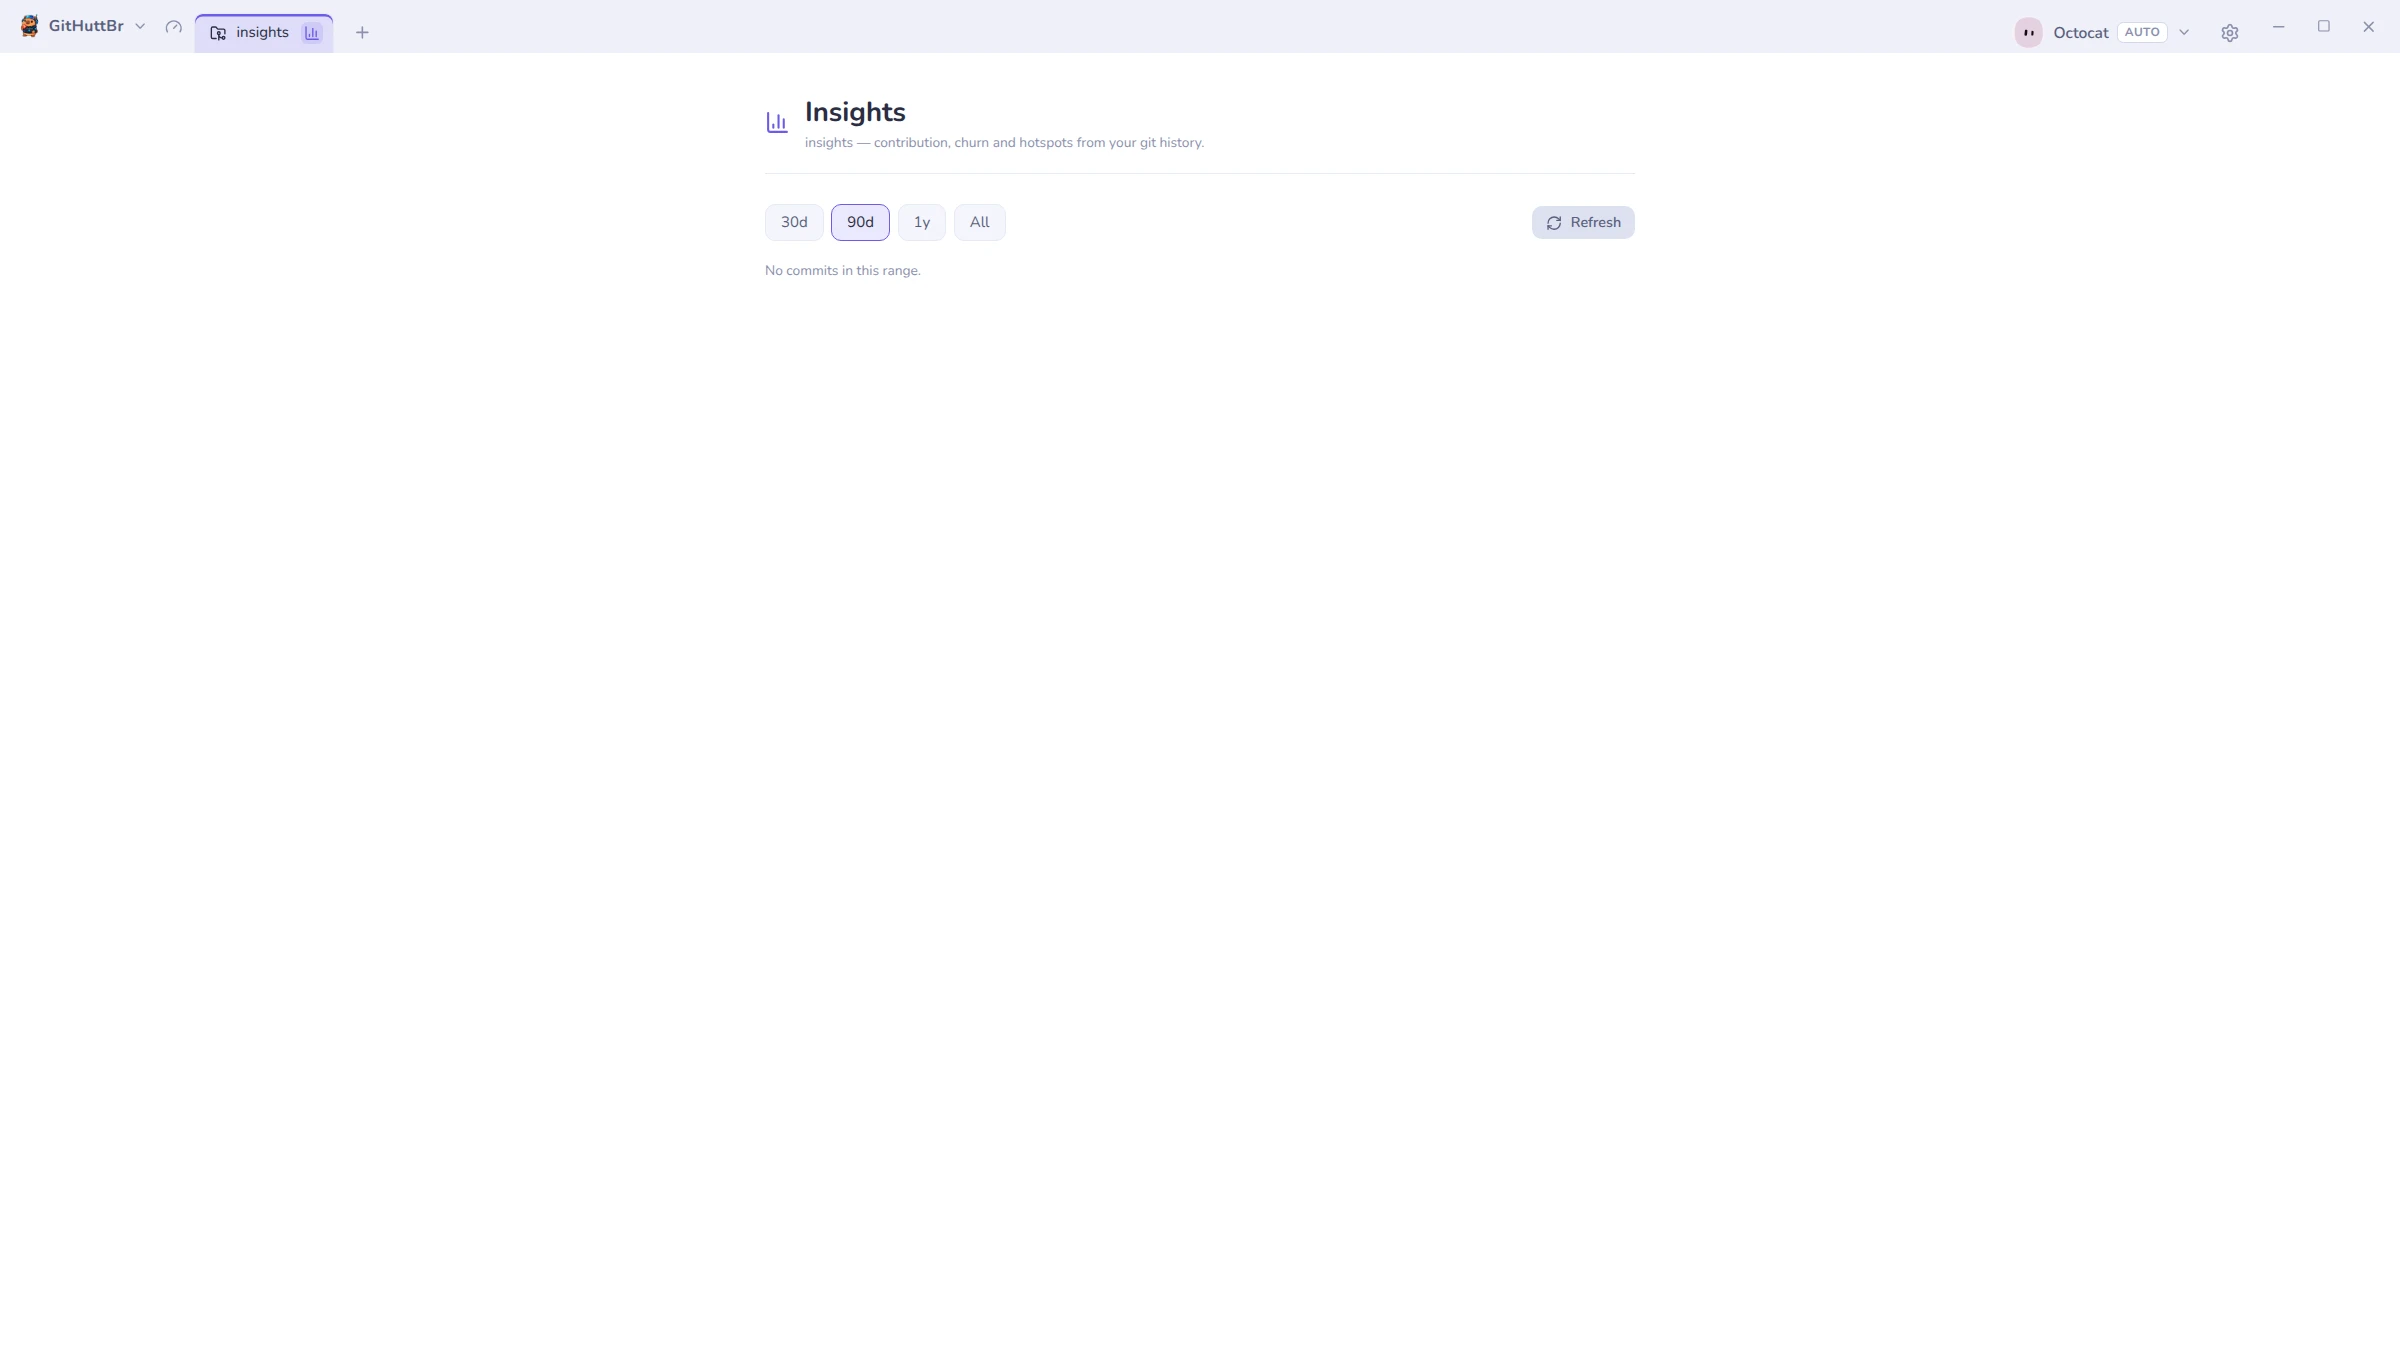
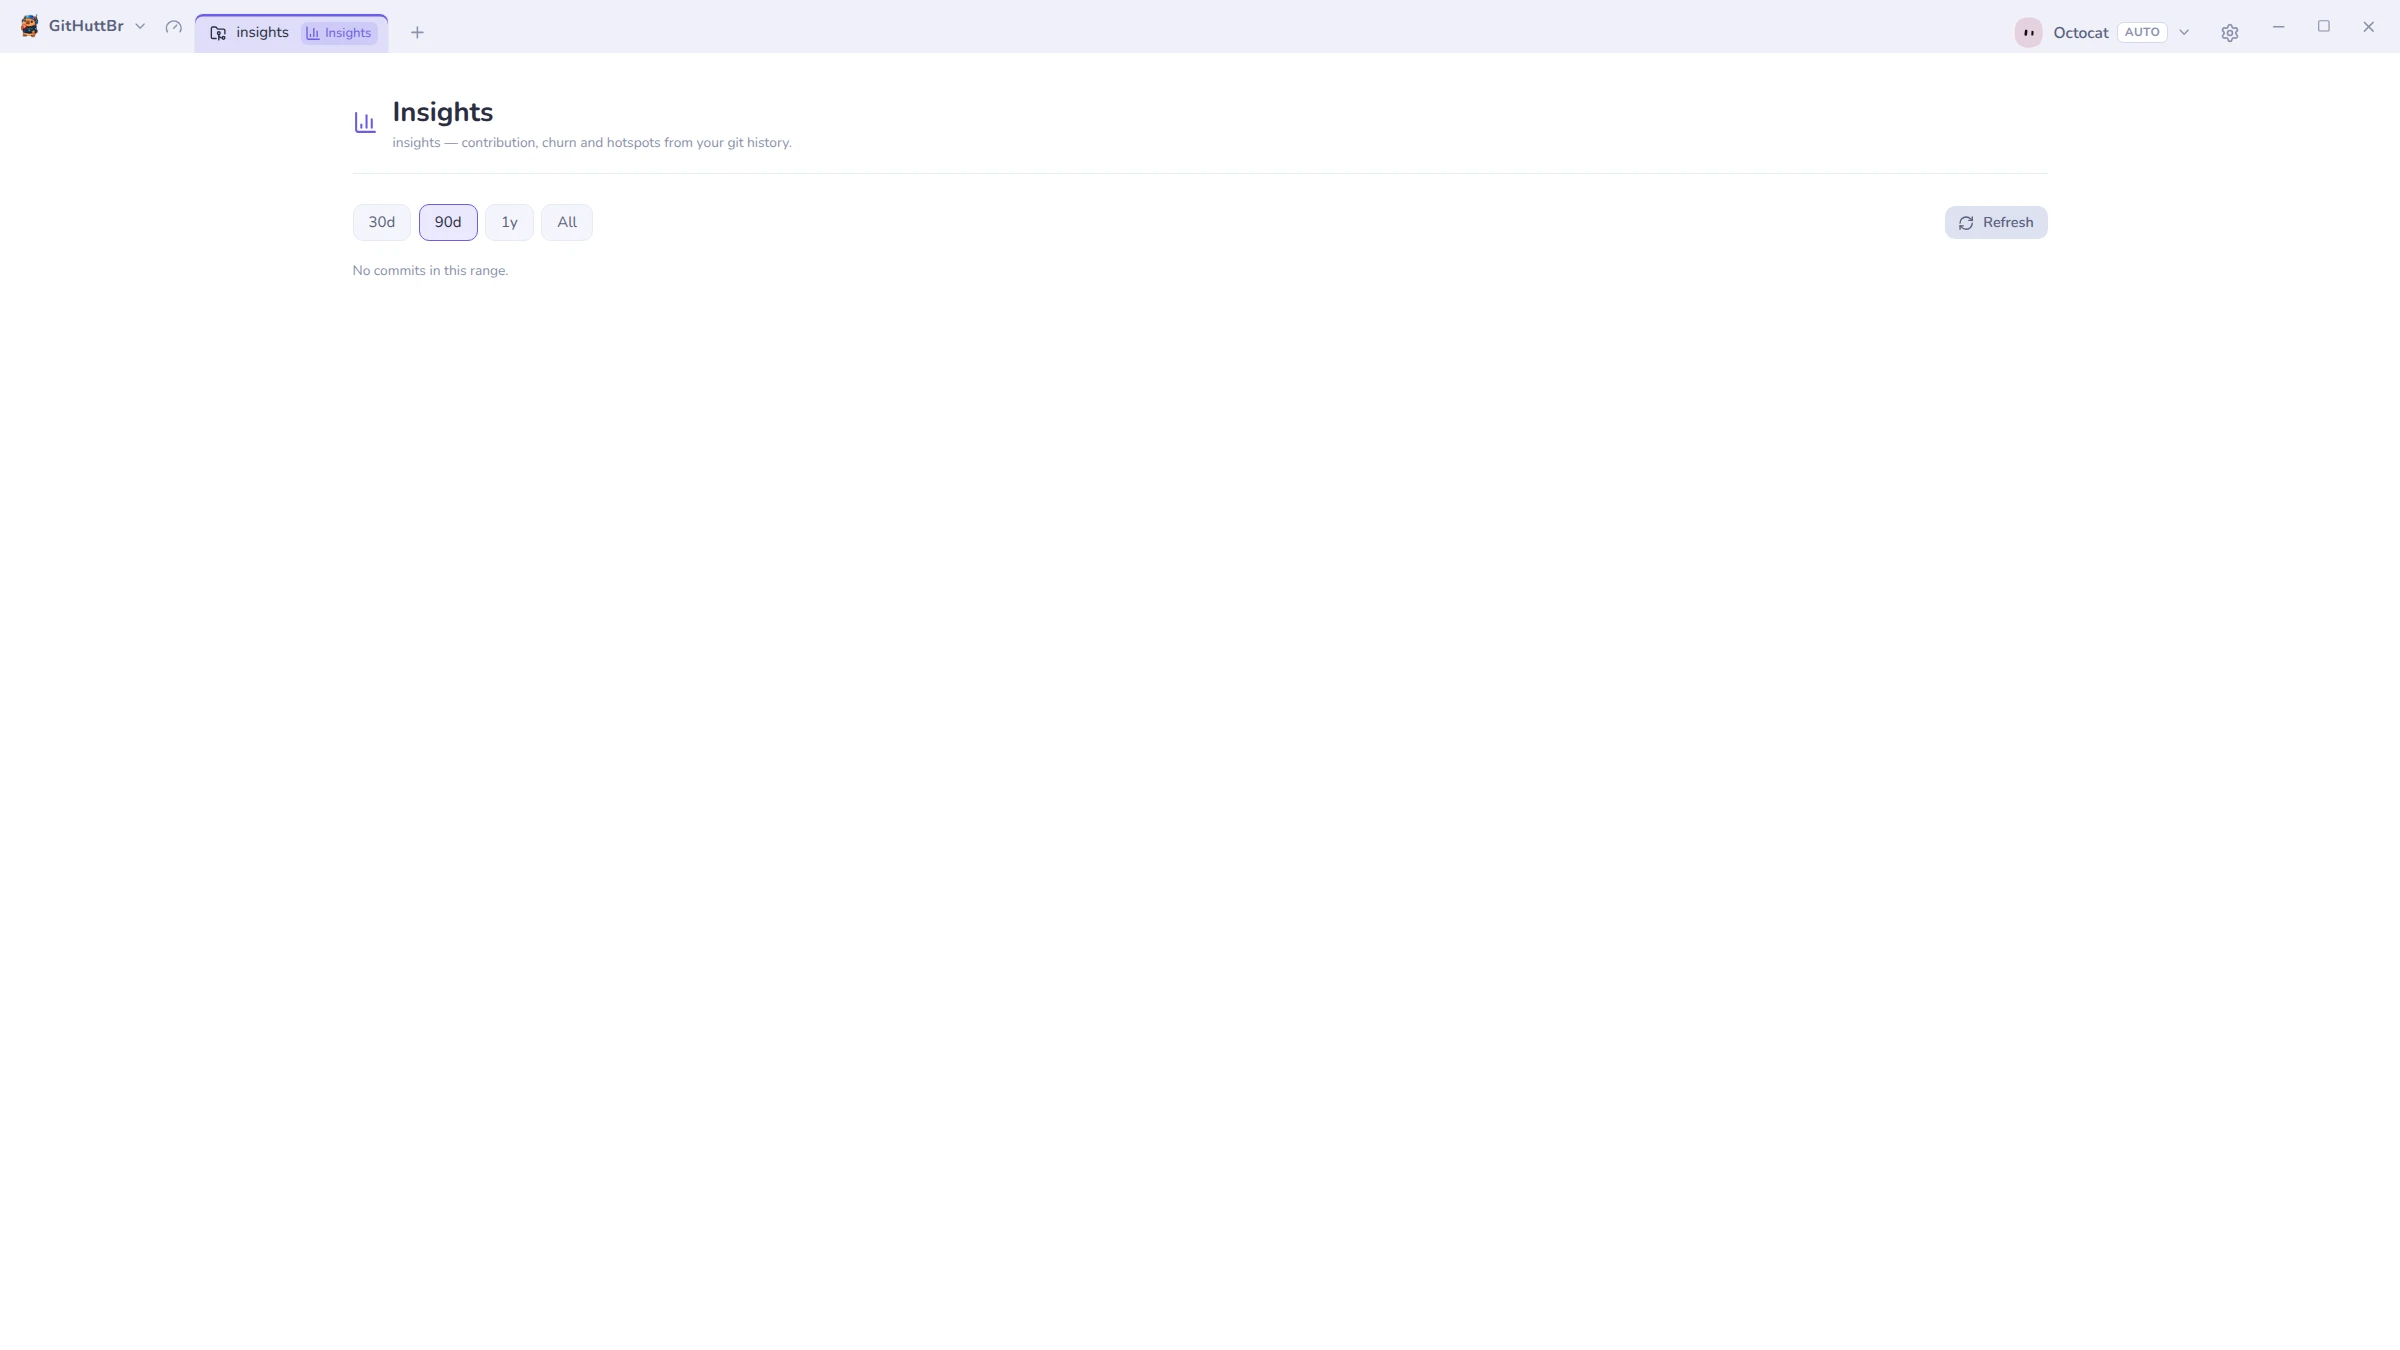
fix(pages): every centre-pane page as wide as the pull request list
changelog, releases, logs, insights, wiki, notifications and vault shared a
760px column; they now take the 1420px the pull request list and ci runs use

diff --git a/src/renderer/src/styles.css b/src/renderer/src/styles.css
@@ -8773,8 +8773,11 @@ body.col-resizing .node-ava {
   border: 1px solid var(--border-soft);
 }
 
+/* Every centre-pane page (changelog, releases, logs, insights, wiki,
+   notifications, vault, pull requests, ci runs) as wide as the pull request
+   list, so wide screens are used rather than a narrow column. */
 .changelog-inner {
-  max-width: 760px;
+  max-width: 1420px;
   margin: 0 auto;
   padding: 32px 32px 64px;
 }
@@ -23205,7 +23208,6 @@ button.pck-chip:hover { color: var(--text-0); }
 
 /* ── CI runs: workflow cards, quick filters, run cards ── */
 /* As wide as the Pull requests page: same column, same gutters, same top offset. */
-.ci-runs-page .changelog-inner { max-width: 1420px; }
 .ci-runs-page { --ci-pending: #e0a020; }
 .ci-runs-header { display: flex; flex-wrap: wrap; align-items: center; gap: 12px; margin-bottom: 14px; }
 .ci-runs-icon { color: var(--accent); flex: none; }
@@ -23422,7 +23424,6 @@ button.pck-chip:hover { color: var(--text-0); }
 }
 
 /* ── Pull requests page ───────────────────────────────────────────────────── */
-.prl-page .changelog-inner { max-width: 1420px; }
 .prl-field { display: flex; flex-direction: column; gap: 4px; flex: 1 1 170px; min-width: 0; font-size: 11.5px; font-weight: 600; color: var(--text-2); }
 .prl-field input, .prl-field select { width: 100%; min-width: 0; height: 32px; box-sizing: border-box; font-weight: 400; }
 .prl-status { font-size: 12.5px; color: var(--text-2); margin: 4px 0 10px; overflow-wrap: anywhere; }
